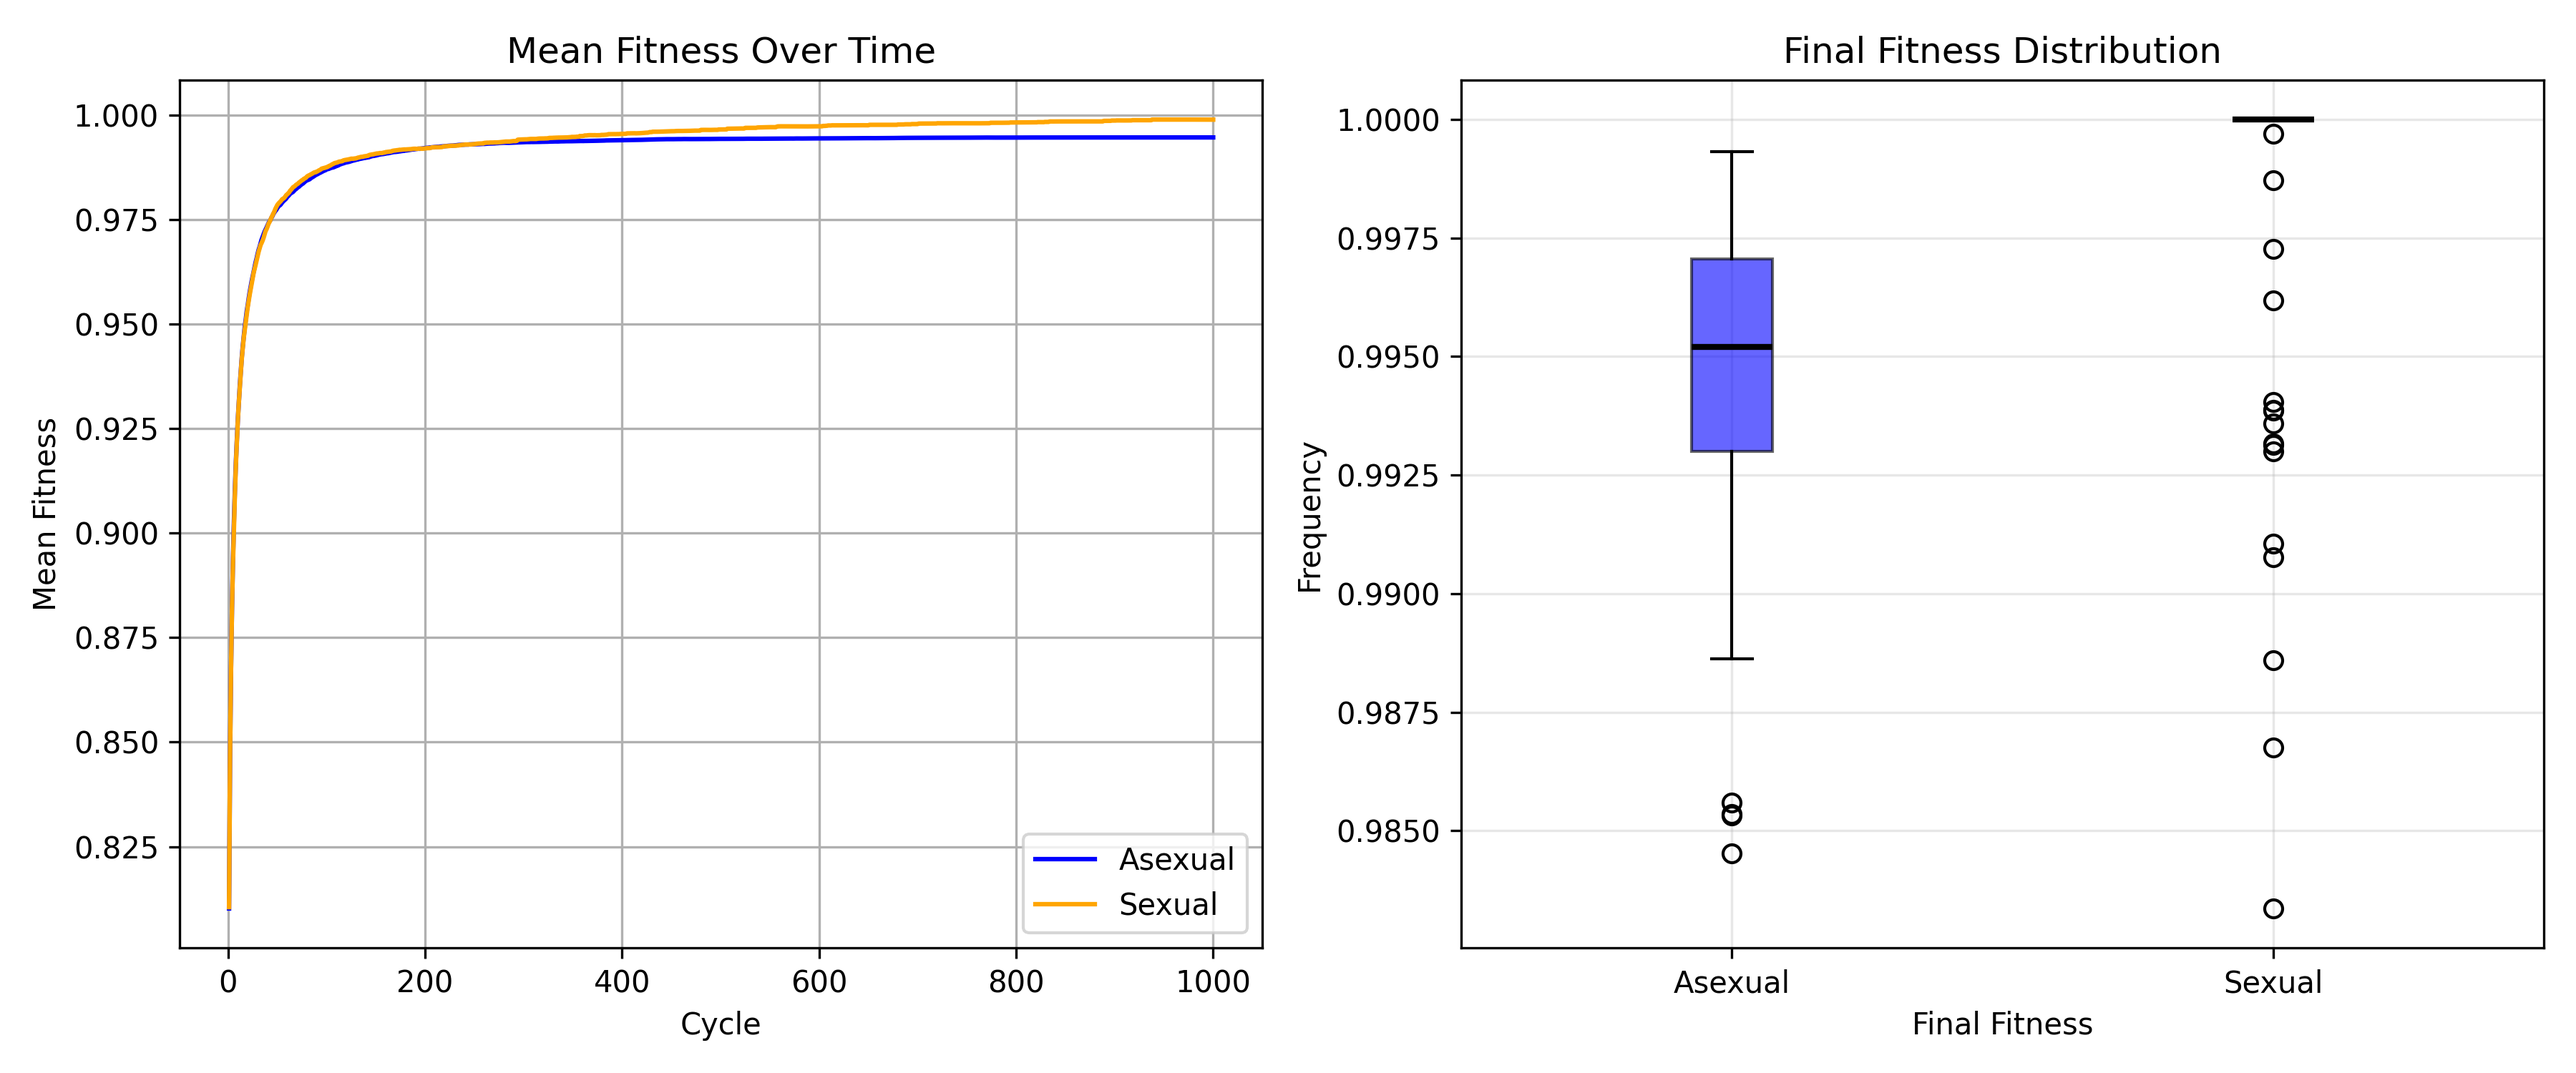
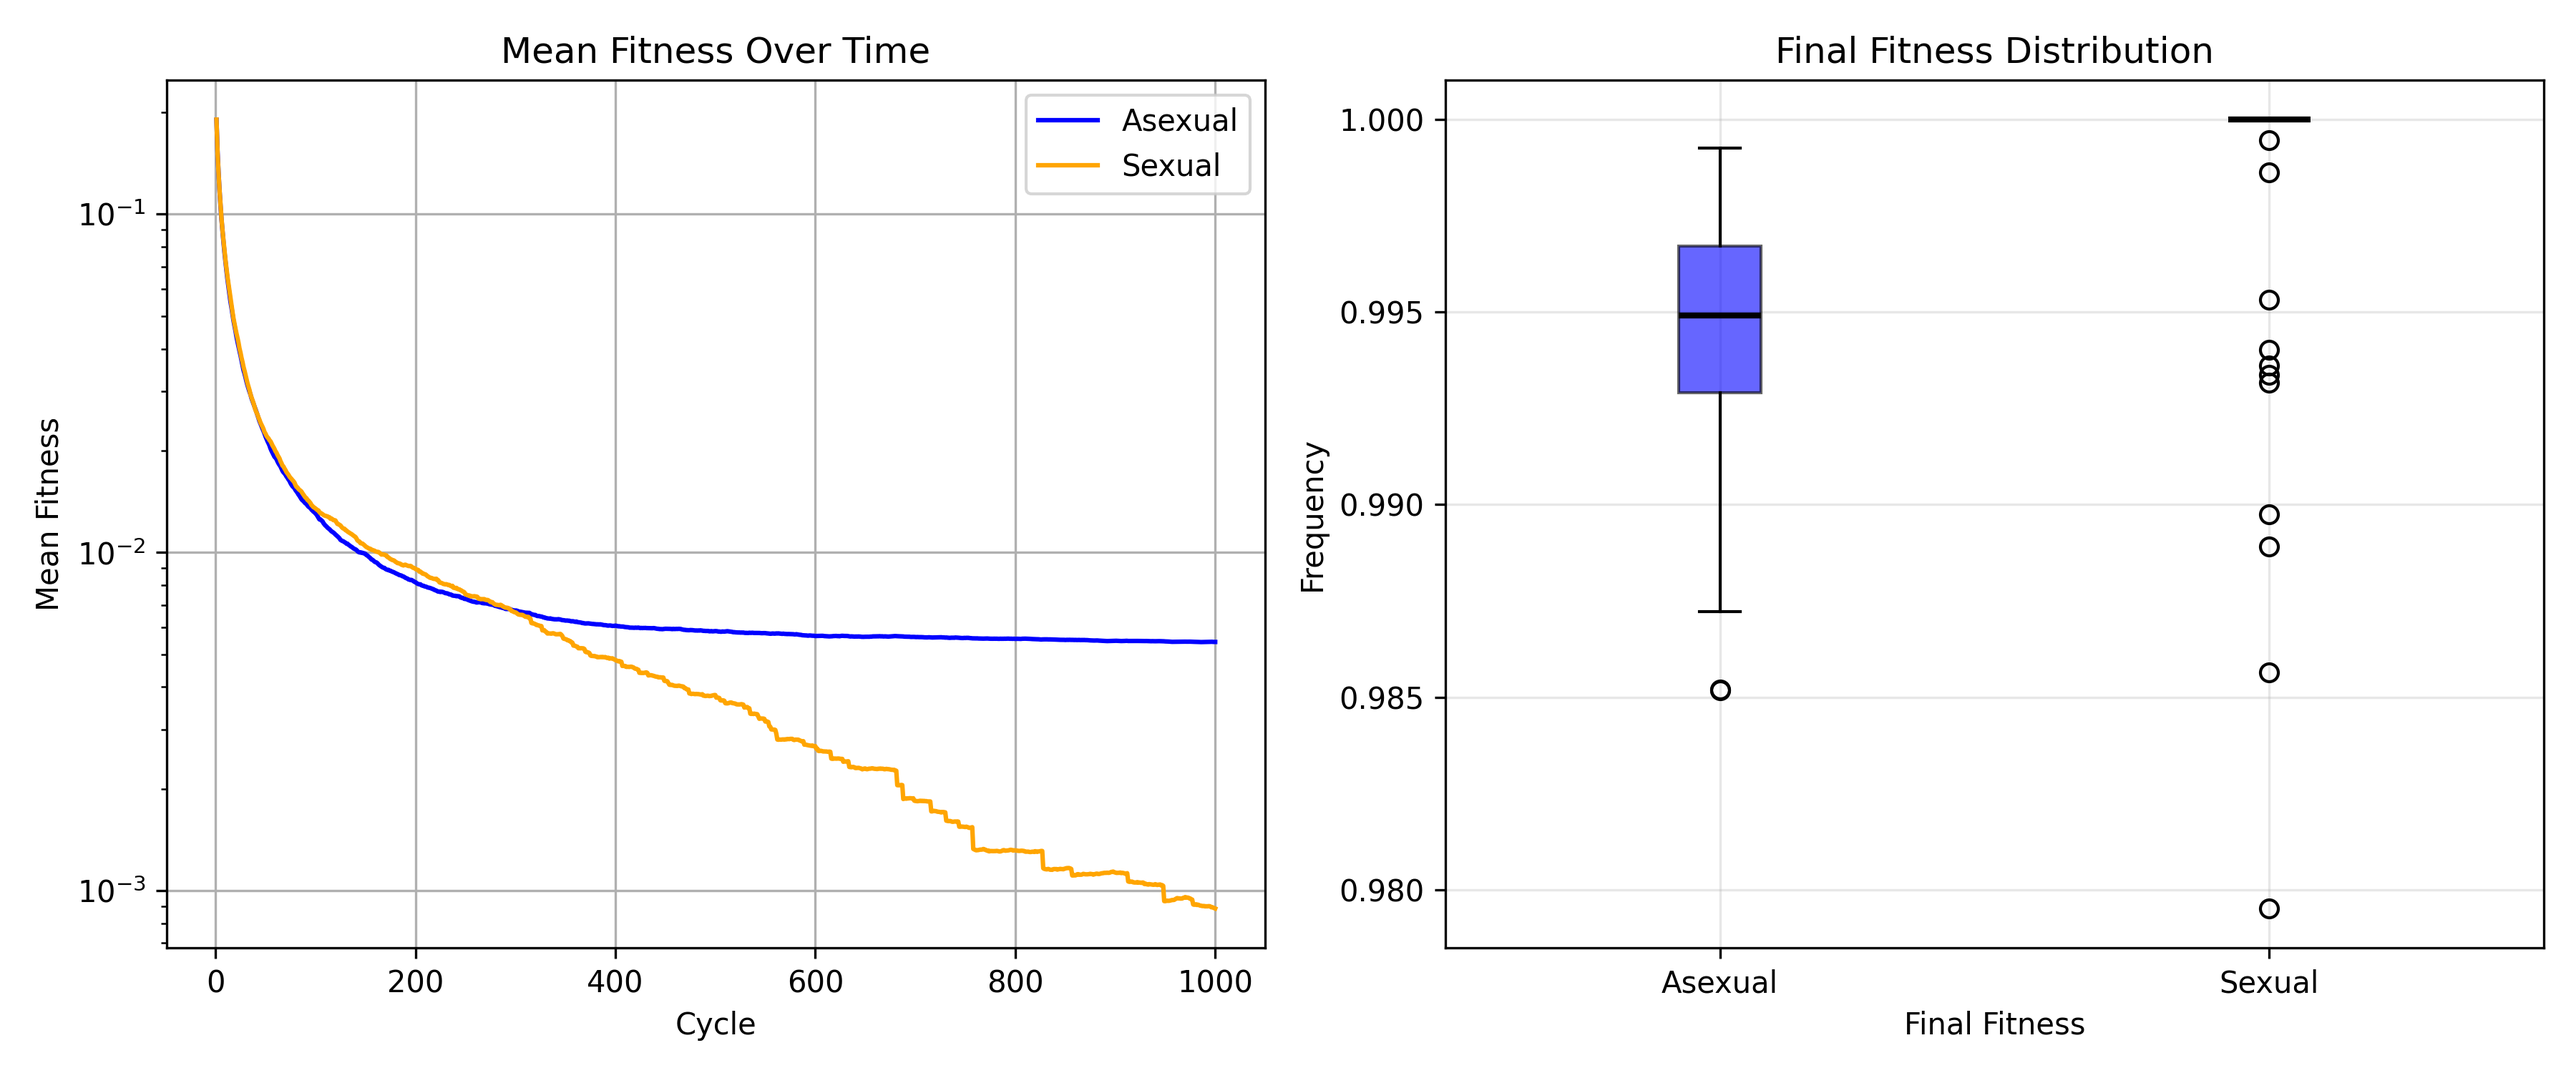
gap meaurement toggle?

diff --git a/Slim_Scripts/figure_maker.py b/Slim_Scripts/figure_maker.py
@@ -5,7 +5,8 @@ import matplotlib.pyplot as plt
 from pathlib import Path
 
 BOXPLOT = True
-LOG_SCALE = False
+LOG_SCALE = True
+MEASURE_FITNESS_GAP = True
 
 def load_2d_array(path: str) -> np.ndarray:
     rows = []
@@ -23,8 +24,9 @@ asexual_arr = load_2d_array("asexual_fitness_over_time.txt")
 sexual_arr = sexual_arr.mean(axis=0)
 asexual_arr = asexual_arr.mean(axis=0)
 
-sexual_arr = 1- sexual_arr
-asexual_arr = 1- asexual_arr
+if MEASURE_FITNESS_GAP:
+    sexual_arr = 1- sexual_arr
+    asexual_arr = 1- asexual_arr
 
 cycles = np.array(range(1, sexual_arr.shape[0] + 1))
 
